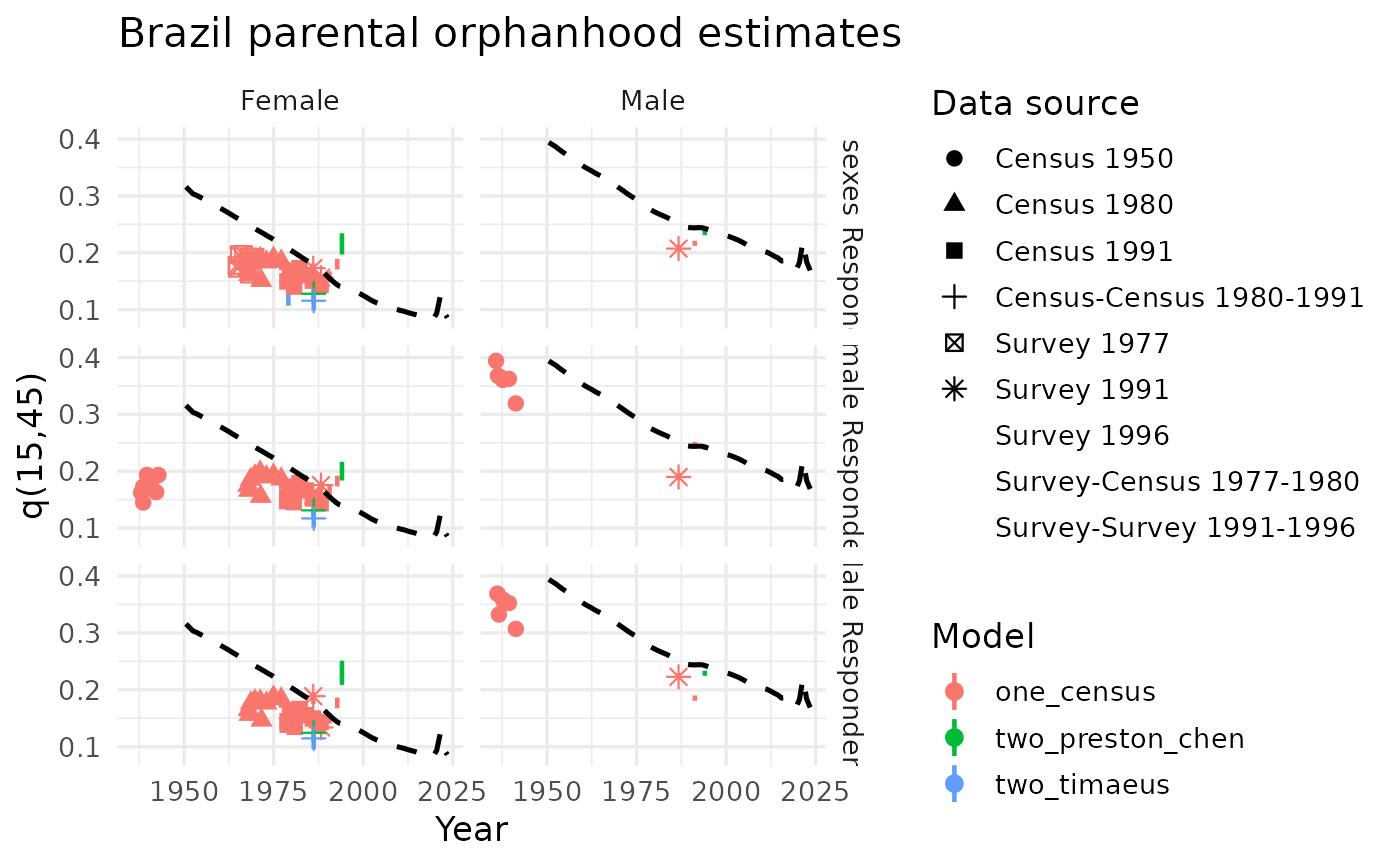
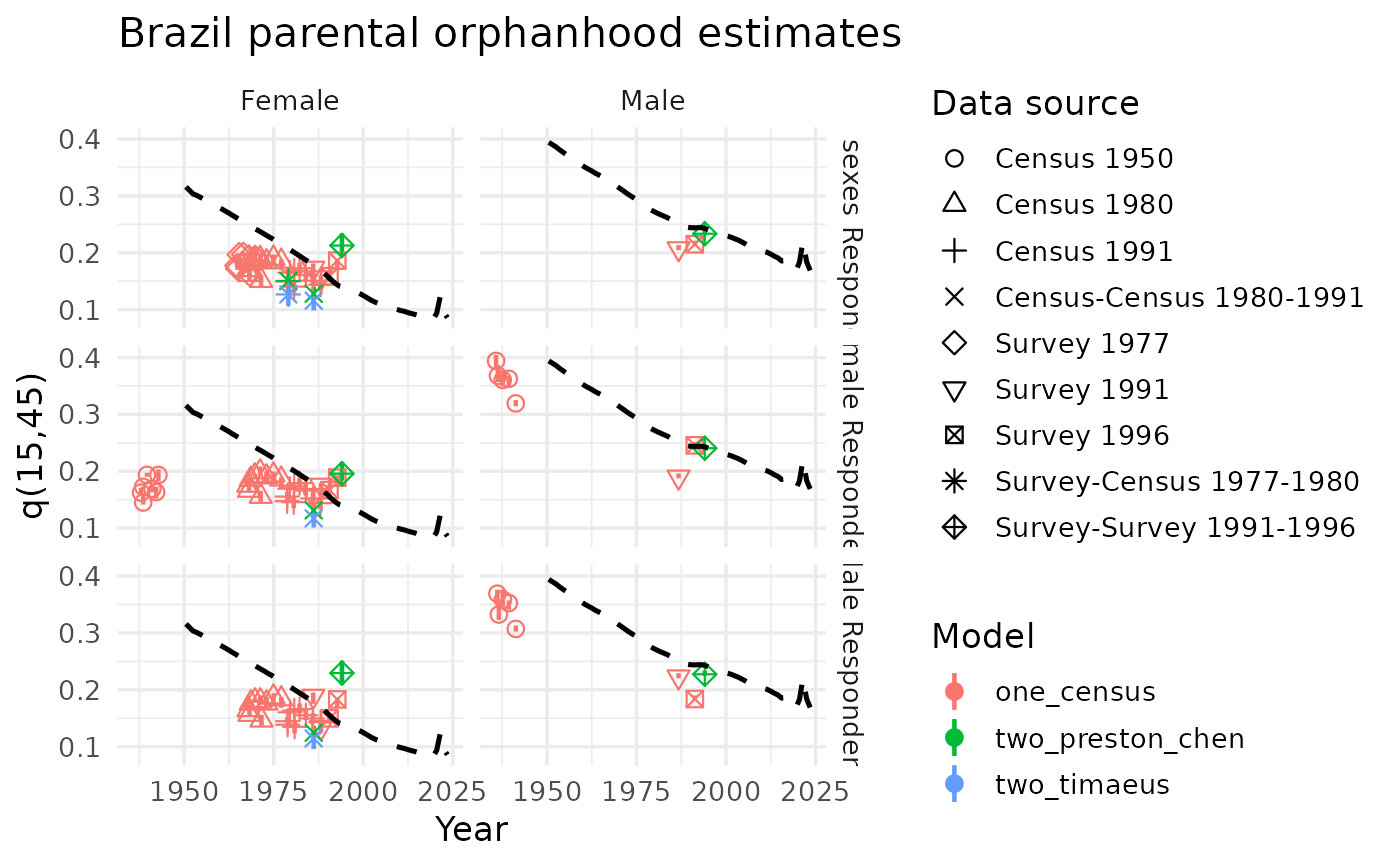
Deploying to gh-pages from @ IvanWilli/MortIndEst@fe17e09e83a87a88086225441b6f81c9824ce0ed 🚀

diff --git a/articles/Orphanhood.html b/articles/Orphanhood.html
@@ -629,13 +629,8 @@ surveys.</p>
 <span>    shape <span class="op">=</span> <span class="st">"Data source"</span>,</span>
 <span>    title <span class="op">=</span> <span class="st">"Brazil parental orphanhood estimates"</span></span>
 <span>  <span class="op">)</span> <span class="op">+</span></span>
-<span>  <span class="fu"><a href="https://ggplot2.tidyverse.org/reference/ggtheme.html" class="external-link">theme_minimal</a></span><span class="op">(</span>base_size <span class="op">=</span> <span class="fl">13</span><span class="op">)</span></span>
-<span><span class="co">#&gt; Warning: The shape palette can deal with a maximum of 6 discrete values because more</span></span>
-<span><span class="co">#&gt; than 6 becomes difficult to discriminate</span></span>
-<span><span class="co">#&gt; <span style="color: #00BBBB;">ℹ</span> you have requested 9 values. Consider specifying shapes manually if you need</span></span>
-<span><span class="co">#&gt;   that many of them.</span></span>
-<span><span class="co">#&gt; Warning: Removed 17 rows containing missing values or values outside the scale range</span></span>
-<span><span class="co">#&gt; (`geom_point()`).</span></span></code></pre></div>
+<span>  <span class="fu"><a href="https://ggplot2.tidyverse.org/reference/scale_manual.html" class="external-link">scale_shape_manual</a></span><span class="op">(</span>values <span class="op">=</span> <span class="fl">1</span><span class="op">:</span><span class="fl">12</span><span class="op">)</span> <span class="op">+</span></span>
+<span>  <span class="fu"><a href="https://ggplot2.tidyverse.org/reference/ggtheme.html" class="external-link">theme_minimal</a></span><span class="op">(</span>base_size <span class="op">=</span> <span class="fl">13</span><span class="op">)</span></span></code></pre></div>
 <p><img src="Orphanhood_files/figure-html/unnamed-chunk-9-1.png" class="r-plt" alt="" width="700"></p>
 </div>
 <div class="section level2">
